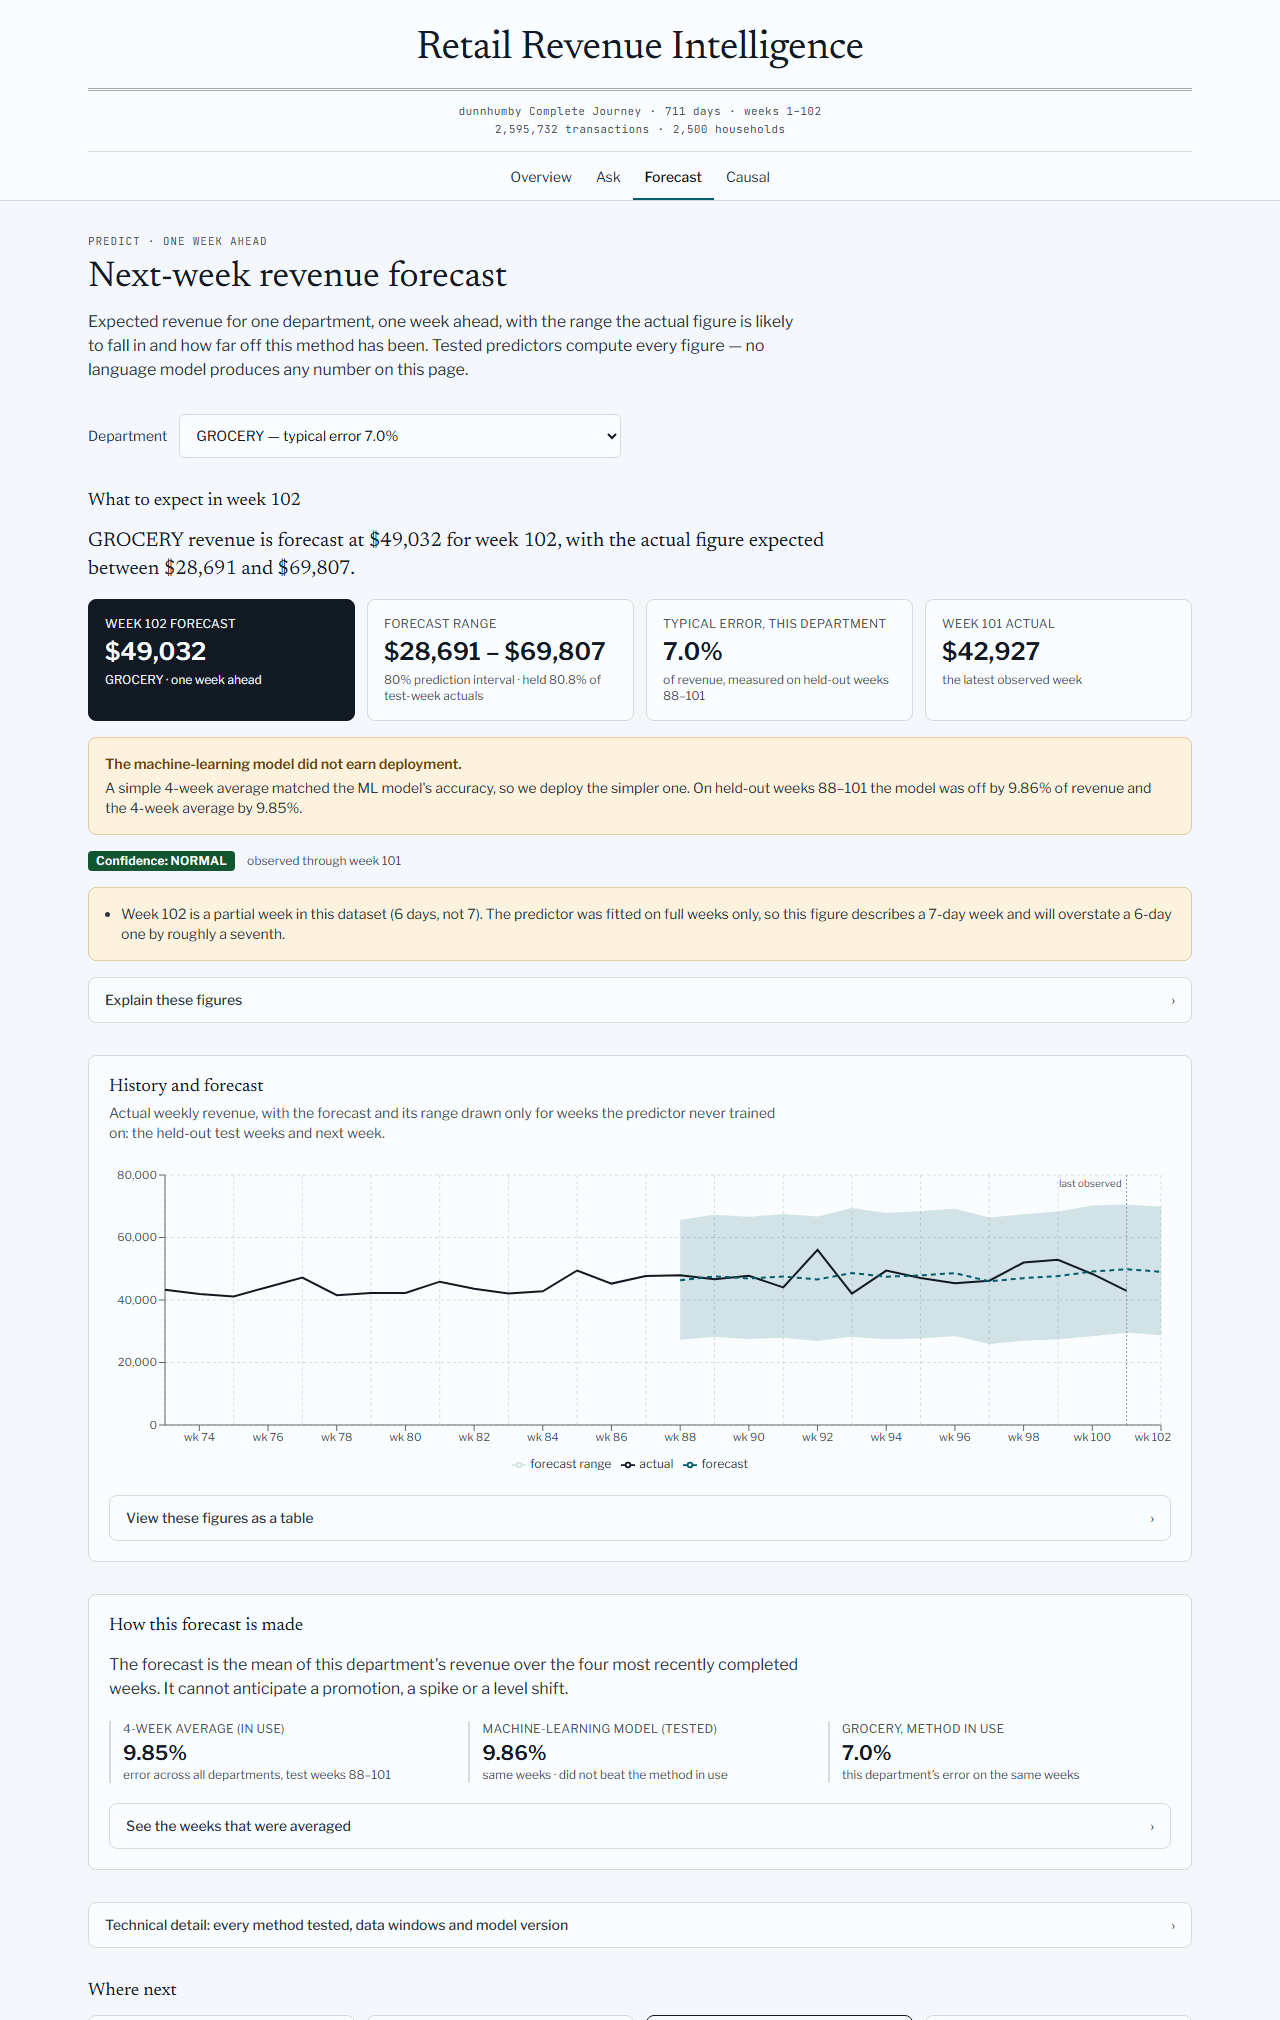
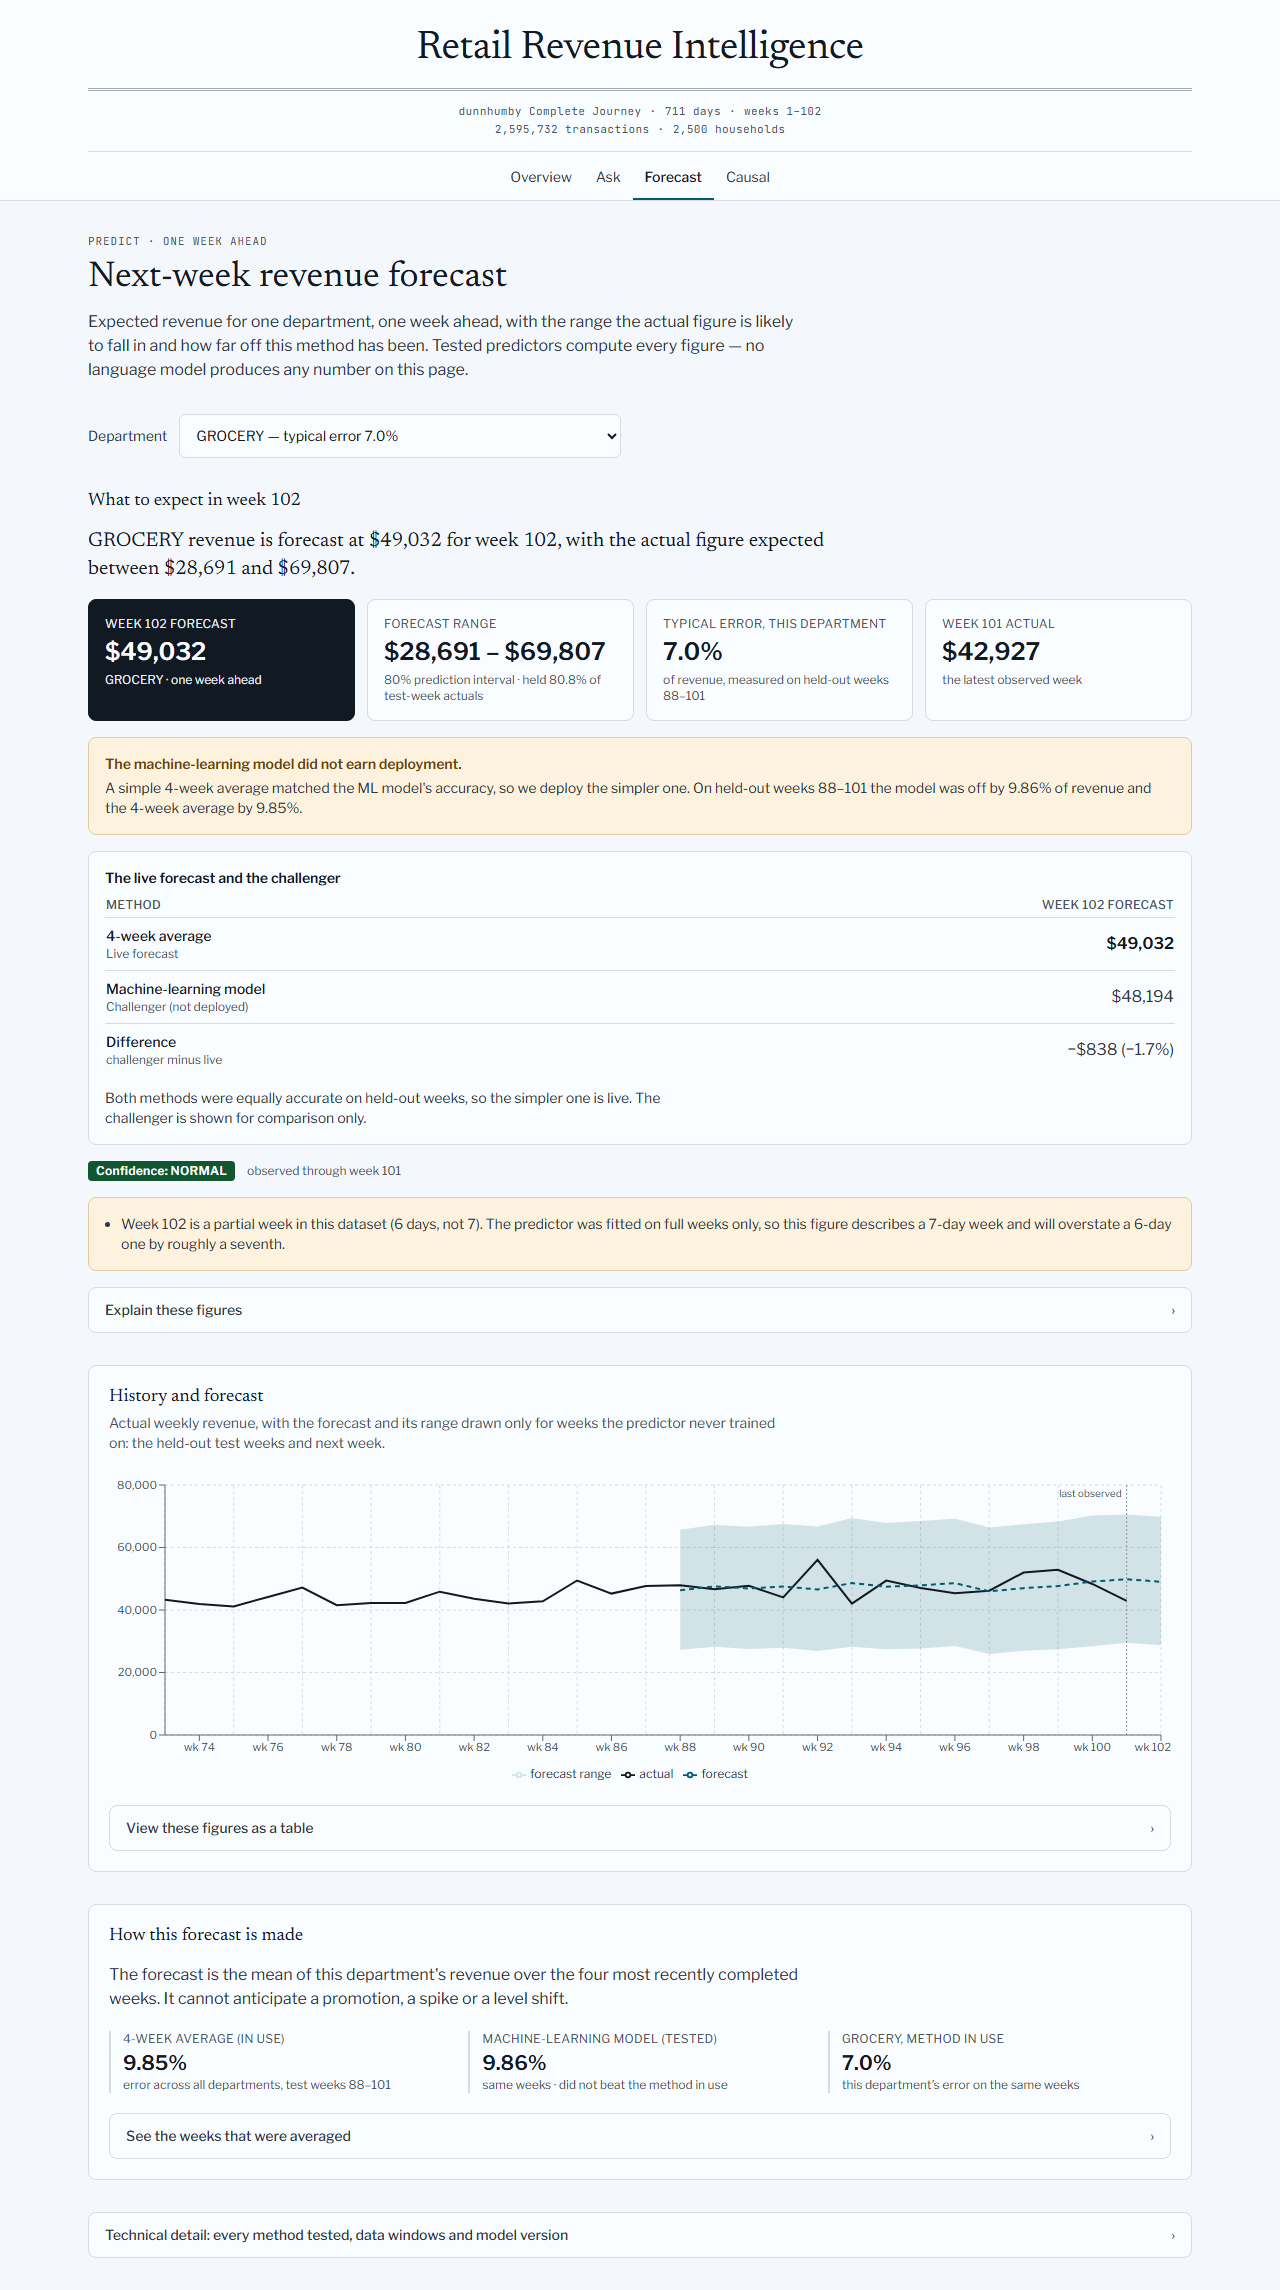
docs+frontend: label the week link as unverified, retake Forecast screenshots
Overview: "Ask what drove week 92" keeps its link and its pre-filled question,
and now says beside it "Not a verified demo question." The question has no
benchmark case and no recorded production run. The code comment that claimed
it was verified against the published tier is corrected. A test pins the
note, its place beside the link, and that the question is on neither the
verified list nor the benchmark.

Screenshots: Forecast (desktop and phone) retaken from the live demo at main
a328526, so both show the live forecast beside the challenger. The live
Overview and Causal pages are byte-identical to the stored captures and the
Ask page is unchanged, so those three files stay.

Engineering notes: a "Known follow-ups" section records the open items,
including the three pieces of stored wording that need a republish to change
at the source.

diff --git a/frontend/app/page.tsx b/frontend/app/page.tsx
@@ -27,8 +27,8 @@ import { Workflow } from '@/components/workflow';
 import { fmtMoney, fmtNum, get } from '@/lib/api';
 import { EXAMPLES } from '@/lib/examples';
 import {
-  ENROLMENT_FLOOR_WEEK, STEPS, askHref, displayWarning, driversQuestion, flaggedSummary,
-  forecastDepartment, latestFullWeek, peakWeek, pretrendSentence,
+  DRIVERS_QUESTION_NOTE, ENROLMENT_FLOOR_WEEK, STEPS, askHref, displayWarning, driversQuestion,
+  flaggedSummary, forecastDepartment, latestFullWeek, peakWeek, pretrendSentence,
 } from '@/lib/overview.mjs';
 
 type Totals = {
@@ -185,11 +185,16 @@ export default function OverviewPage() {
               <ErrorState error={anomalies.error} what="the flagged weeks" onRetry={retry} />
             )}
 
-            <div className="flex flex-wrap gap-3">
+            <div className="flex flex-wrap items-center gap-x-3 gap-y-2">
               {peak && !dept ? (
-                <ActionLink primary href={askHref(driversQuestion(peak.week_no))}>
-                  Ask what drove week {peak.week_no}
-                </ActionLink>
+                <>
+                  <ActionLink primary href={askHref(driversQuestion(peak.week_no))}>
+                    Ask what drove week {peak.week_no}
+                  </ActionLink>
+                  {/* The link pre-fills a question with no benchmark case behind
+                      it, so it says so. The verified prompts are on the Ask page. */}
+                  <span className="text-sm text-muted">{DRIVERS_QUESTION_NOTE}</span>
+                </>
               ) : (
                 <ActionLink primary href="/query">Ask about this</ActionLink>
               )}

diff --git a/tests/test_overview_product.py b/tests/test_overview_product.py
@@ -261,6 +261,38 @@ def test_the_overview_hands_off_to_ask_with_verified_questions() -> None:
     assert "/forecast?department=" in page and 'href="/causal"' in page
 
 
+def test_the_week_link_says_its_question_is_not_a_verified_demo_question() -> None:
+    # "Ask what drove week N" pre-fills a question with no benchmark case and no
+    # recorded production run. The link stays -- it is the Detect to Explain
+    # handoff -- and the page says what it is. A code comment used to claim the
+    # question was verified.
+    lib_source = _read("lib/overview.mjs")
+    lib = _code_only(lib_source)
+    assert "export const DRIVERS_QUESTION_NOTE = 'Not a verified demo question.';" in lib
+    template = re.search(
+        r"return `(Which 5 departments had the highest revenue in week )\$\{weekNo\}\?`", lib)
+    assert template, "the pre-filled question changed; re-check whether it is verified"
+
+    # The note sits directly beside the link, in the same wrapping row, so it
+    # stays attached to the link on a phone.
+    page = _code_only(_read("app/page.tsx"))
+    row = page[page.index('<div className="flex flex-wrap items-center gap-x-3 gap-y-2">'):]
+    row = row[:row.index("</div>")]
+    link = row.index("<ActionLink primary href={askHref(driversQuestion(peak.week_no))}>")
+    note = row.index('<span className="text-sm text-muted">{DRIVERS_QUESTION_NOTE}</span>')
+    assert link < note and "Ask what drove week {peak.week_no}" in row[link:note]
+
+    # It really is unverified: not on the verified list, and no benchmark case.
+    verified = re.findall(r'question:\s*"([^"]+)"', _read("lib/examples.ts"))
+    assert verified and not any(q.startswith(template.group(1)) for q in verified)
+    cases = (ROOT / "src/rrip/eval/cases.py").read_text(encoding="utf-8")
+    assert "highest revenue in week" not in cases
+
+    # And nothing claims otherwise any more.
+    assert "NOT a verified demo question" in lib_source
+    assert not re.search(r"(?i)verified against the\s+\*?\s*published tier", lib_source)
+
+
 # --- Forecast and Causal: business-readable, and no overclaiming -------------------
 
 def _explained(route: str) -> list[str]:

diff --git a/docs/engineering-notes.md b/docs/engineering-notes.md
@@ -564,3 +564,37 @@ what made the standby stalls visible. Every step is resumable and idempotent.
 Data quality results are measured at load into `etl_data_quality` and read from
 there by both reconciliation and the assertion suite, so no threshold is
 hardcoded from a profiling pass that computed money in float32.
+
+## Known follow-ups
+
+Open items, kept here so they are not lost. None is a defect in a figure a
+visitor sees: the first three are wording stored in the published database,
+which the pages already work round, and fixing them at the source means
+republishing.
+
+- **The stored pre-trend verdict.** `pub_causal_results` holds the sentence
+  "The pre-period test did not reject parallel trends". The approved wording on
+  the site is "The test did not reject differential pre-treatment trends", so
+  the pages build their own sentence from the test's figures
+  (`pretrendSentence` in `frontend/lib/overview.mjs`) and never print the
+  stored one. Needs a republish to change at the source.
+- **Campaign 18's stored warning.** It says "the estimate below", written when
+  the estimate sat under the warnings; the estimate now leads the page. The
+  page shows "this estimate" instead (`displayWarning`). Needs a republish to
+  change at the source.
+- **The stored deployment rationale.** The forecast model card quotes
+  "Diebold-Mariano p = 0.99227" without naming the test. It is the model
+  against the four-week trailing mean, and the Forecast page says so under the
+  quoted text. Needs a republish to change at the source.
+- **The week link on the Overview.** "Ask what drove week 92" pre-fills "Which
+  5 departments had the highest revenue in week 92?", which has no benchmark
+  case and no recorded production run. The link is labelled "Not a verified
+  demo question." Verifying it properly means registering a published-tier
+  benchmark case with a reference query and running it once against the model.
+- **The figures on this page.** Apart from the published tier's size and the
+  Diebold-Mariano attributions, which were corrected against their sources,
+  the numbers above have not been re-audited since they moved out of the
+  README.
+- **Screenshots follow the pages by hand.** `docs/screenshots/` is retaken
+  from the live demo after a visible change ships; nothing checks that a
+  screenshot still matches its page.

diff --git a/README.md b/README.md
@@ -35,9 +35,9 @@ figure, and the recorded benchmark behind each engine.
 
 | Forecast | Causal |
 |---|---|
-| ![Forecast: next-week forecast, range, measured error, the two-sentence note on the machine-learning model, history chart and how the forecast is made](docs/screenshots/forecast-desktop.png) | ![Causal: campaign effect, confidence interval, standard error, plain-English verdict and assumptions](docs/screenshots/causal-desktop.png) |
+| ![Forecast: next-week forecast, range, measured error, the two-sentence note on the machine-learning model, the live forecast beside the challenger that was not deployed, history chart and how the forecast is made](docs/screenshots/forecast-desktop.png) | ![Causal: campaign effect, confidence interval, standard error, plain-English verdict and assumptions](docs/screenshots/causal-desktop.png) |
 
-<img src="docs/screenshots/forecast-mobile.jpg" alt="Forecast on a phone: the headline forecast and its range" width="300">
+<img src="docs/screenshots/forecast-mobile.jpg" alt="Forecast on a phone: the note on the machine-learning model, and the live forecast beside the challenger that was not deployed" width="300">
 
 All five were captured from the live demo (published tier) on 2026-10-02.
 
